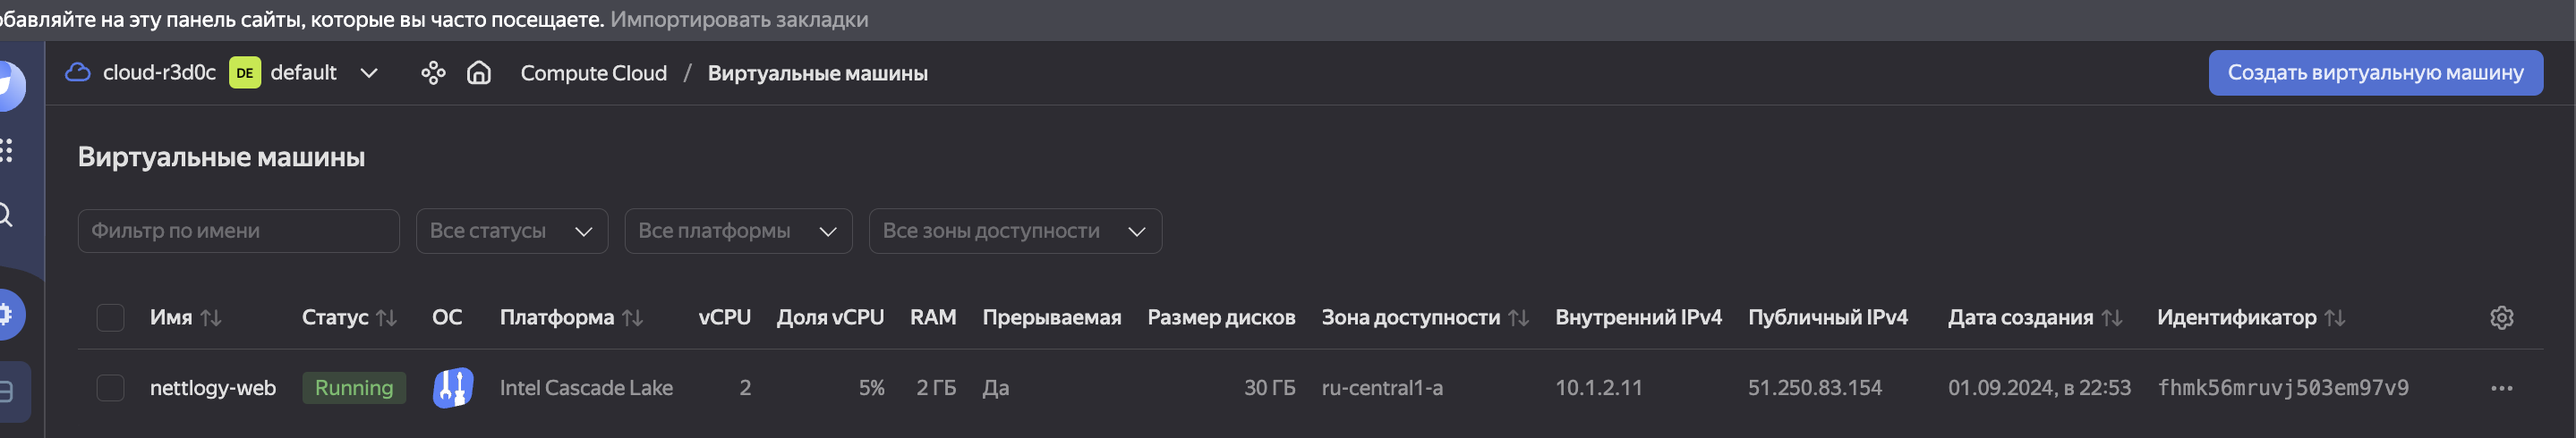
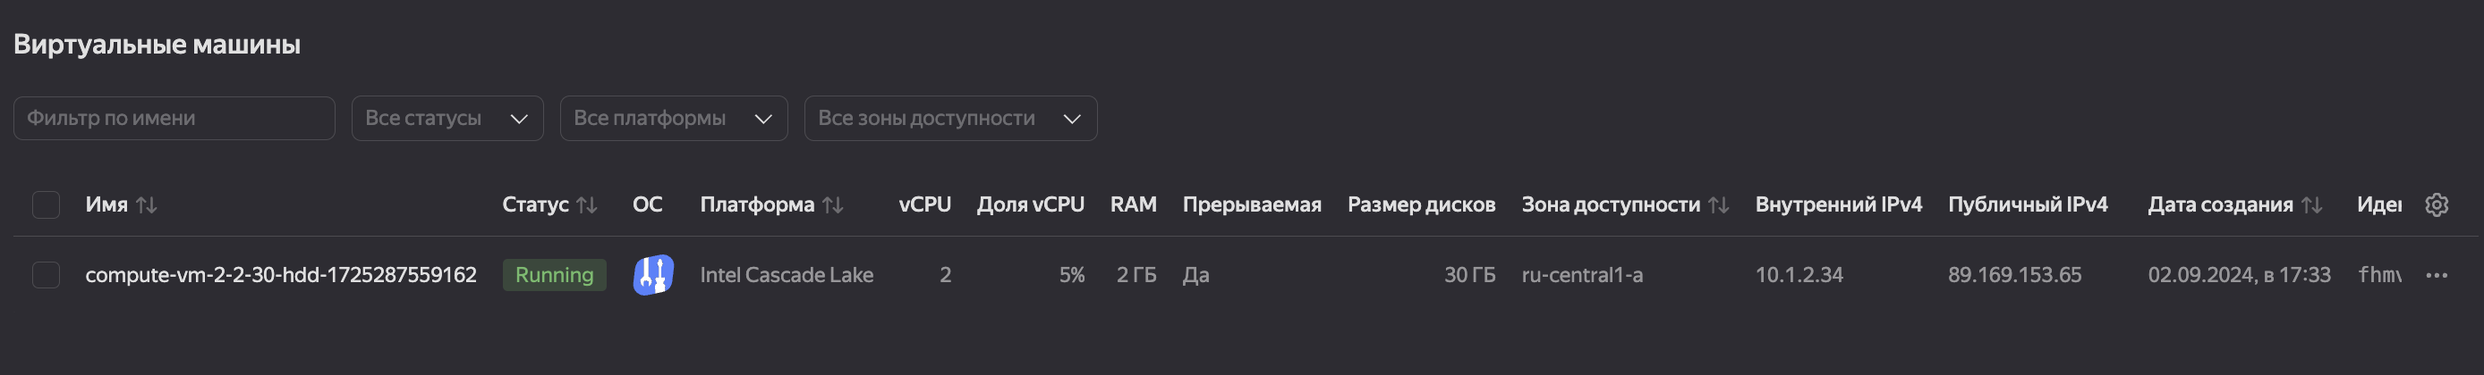
task4

diff --git a/05-virt-04-docker-in-practice/README.md b/05-virt-04-docker-in-practice/README.md
@@ -554,77 +554,228 @@ mysql> SELECT * from web_requests LIMIT 10;.
 
 ![alt text](image-2.png)
 
-2. Подключаемся к ВМ 
+2. Заливаем файлки ```bash``` в для установки и запуска а так-же подключаемся к ВМ 
+
+> Листинг файликов 
 
 ```
-```
+red0c@compute-vm-2-2-30-hdd-1725287559162:~$ cat _docker_compose_install.sh
+#!/bin/bash
 
-3.
-
-```
-sudo apt update
-sudo apt-get update
-red0c@compute-vm-2-2-30-hdd-1725229033417:~$ DOCKER_CONFIG=${DOCKER_CONFIG:-$HOME/.docker}
+DOCKER_CONFIG=${DOCKER_CONFIG:-$HOME/.docker} 
 mkdir -p $DOCKER_CONFIG/cli-plugins
-curl -SL https://github.com/docker/compose/releases/download/v2.29.2/docker-compose-linux-x86_64 -o $DOCKER_CONFIG/cli-plugins/docker-compose
+sudo curl -SL https://github.com/docker/compose/releases/download/v2.29.2/docker-compose-linux-x86_64 -o $DOCKER_CONFIG/cli-plugins/docker-compose
+sudo chmod +x $DOCKER_CONFIG/cli-plugins/docker-compose
+sudo chmod -x /var/run/docker.sock
+sudo adduser $USER docker
+newgrp docker
+docker compose version
+
+red0c@compute-vm-2-2-30-hdd-1725287559162:~$ cat _proj_load_and_run.sh
+#!/bin/bash
+
+sudo git clone https://github.com/x0r1x/shvirtd-example-python.git /opt/shvirtd-example-python
+cd /opt/shvirtd-example-python
+docker compose up -d
+```
+
+> Запуск
+
+```
+alekseykashin@MBP-Aleksej shvirtd-example-python % scp _docker_compose_install.sh red0c@89.169.153.65:~/   
+_docker_compose_install.sh                                                                                                                                                          100%  396     8.2KB/s   00:00    
+alekseykashin@MBP-Aleksej shvirtd-example-python % scp _proj_load_and_run.sh red0c@89.169.153.65:~/
+_proj_load_and_run.sh                                                                                                                                                               100%  159     2.2KB/s   00:00 
+alekseykashin@MBP-Aleksej shvirtd-example-python % ssh red0c@89.169.153.65                                                                 
+Welcome to Ubuntu 22.04.2 LTS (GNU/Linux 5.15.0-73-generic x86_64)
+
+ * Documentation:  https://help.ubuntu.com
+ * Management:     https://landscape.canonical.com
+ * Support:        https://ubuntu.com/advantage
+
+  System information as of Mon Sep  2 06:01:20 PM MSK 2024
+
+  System load:  0.0                Processes:                136
+  Usage of /:   20.7% of 29.44GB   Users logged in:          0
+  Memory usage: 14%                IPv4 address for docker0: 172.17.0.1
+  Swap usage:   0%                 IPv4 address for eth0:    10.1.2.34
+
+
+Expanded Security Maintenance for Applications is not enabled.
+
+0 updates can be applied immediately.
+
+Enable ESM Apps to receive additional future security updates.
+See https://ubuntu.com/esm or run: sudo pro status
+
+
+The list of available updates is more than a week old.
+To check for new updates run: sudo apt update
+New release '24.04.1 LTS' available.
+Run 'do-release-upgrade' to upgrade to it.
+
+
+Last login: Mon Sep  2 17:37:41 2024 from 94.25.169.122
+```
+
+3. Устанавливаем ```docker compose``` (если честно не очень понятно тут на докере надо было все поднять или докер компоуз)
+
+```
+red0c@compute-vm-2-2-30-hdd-1725287559162:~$ sh _docker_compose_install.sh
   % Total    % Received % Xferd  Average Speed   Time    Time     Time  Current
                                  Dload  Upload   Total   Spent    Left  Speed
   0     0    0     0    0     0      0      0 --:--:-- --:--:-- --:--:--     0
-100 60.2M  100 60.2M    0     0  26.2M      0  0:00:02  0:00:02 --:--:-- 37.7M
-red0c@compute-vm-2-2-30-hdd-1725229033417:~$ ~/.docker/cli-plugins
--bash: /home/red0c/.docker/cli-plugins: Is a directory
-red0c@compute-vm-2-2-30-hdd-1725229033417:~$ cd ~/.docker/cli-plugins
-red0c@compute-vm-2-2-30-hdd-1725229033417:~/.docker/cli-plugins$ ls
-docker-compose
-red0c@compute-vm-2-2-30-hdd-1725229033417:~/.docker/cli-plugins$ cd /usr/local/lib/docker/cli-plugins.
--bash: cd: /usr/local/lib/docker/cli-plugins.: No such file or directory
-red0c@compute-vm-2-2-30-hdd-1725229033417:~/.docker/cli-plugins$ cd /usr/local/lib/docker/cli-plugins.
--bash: cd: /usr/local/lib/docker/cli-plugins.: No such file or directory
-red0c@compute-vm-2-2-30-hdd-1725229033417:~/.docker/cli-plugins$ cd /usr/local/lib/docker/cli-plugins
--bash: cd: /usr/local/lib/docker/cli-plugins: No such file or directory
-red0c@compute-vm-2-2-30-hdd-1725229033417:~/.docker/cli-plugins$ ls
-docker-compose
-red0c@compute-vm-2-2-30-hdd-1725229033417:~/.docker/cli-plugins$ chmod +x $DOCKER_CONFIG/cli-plugins/docker-compose
-red0c@compute-vm-2-2-30-hdd-1725229033417:~/.docker/cli-plugins$ sudo chmod +x /usr/local/lib/docker/cli-plugins/docker-compose
-chmod: cannot access '/usr/local/lib/docker/cli-plugins/docker-compose': No such file or directory
-red0c@compute-vm-2-2-30-hdd-1725229033417:~/.docker/cli-plugins$ docker compose version
-Docker Compose version v2.29.2
-```
+100 60.2M  100 60.2M    0     0  51.8M      0  0:00:01  0:00:01 --:--:--  140M
+Adding user `red0c' to group `docker' ...
+Adding user red0c to group docker
+Done.
 
 ```
 
-sudo apt update
+4. Запускаем проект
 
-red0c@web:/opt/shvirtd-example-python$ sudo snap remove docker
-docker removed
-red0c@web:/opt/shvirtd-example-python$ sudo apt install docker.io
-
-
-
-red0c@web:~$ sudo apt-get update
-Hit:1 http://mirror.yandex.ru/ubuntu jammy InRelease
-sudo apt-get install docker 
-
-
-red0c@nettlogy-web:/opt$ cd /opt/shvirtd-example-python
-red0c@nettlogy-web:/opt/shvirtd-example-python$ sudo apt-get update
-red0c@nettlogy-web:/opt/shvirtd-example-python$ sudo apt-get install docker-compose-plugin
-Reading package lists... Done
-Building dependency tree... Done
-Reading state information... Done
-E: Unable to locate package docker-compose-plugin
-
-
-red0c@nettlogy-web:/opt$ sudo git clone https://github.com/x0r1x/shvirtd-example-python.git /opt/shvirtd-example-python
+```
+red0c@compute-vm-2-2-30-hdd-1725287559162:~$ sh _proj_load_and_run.sh
 Cloning into '/opt/shvirtd-example-python'...
-remote: Enumerating objects: 2170, done.
-remote: Counting objects: 100% (1769/1769), done.
-remote: Compressing objects: 100% (1574/1574), done.
-remote: Total 2170 (delta 201), reused 1447 (delta 185), pack-reused 401 (from 1)
-Receiving objects: 100% (2170/2170), 11.18 MiB | 13.66 MiB/s, done.
-Resolving deltas: 100% (228/228), done.
-red0c@nettlogy-web:/opt$ ls
-containerd  shvirtd-example-python  yc
+remote: Enumerating objects: 2173, done.
+remote: Counting objects: 100% (1772/1772), done.
+remote: Compressing objects: 100% (1576/1576), done.
+remote: Total 2173 (delta 203), reused 1449 (delta 186), pack-reused 401 (from 1)
+Receiving objects: 100% (2173/2173), 11.18 MiB | 16.89 MiB/s, done.
+Resolving deltas: 100% (230/230), done.
+WARN[0000] /opt/shvirtd-example-python/proxy.yaml: the attribute `version` is obsolete, it will be ignored, please remove it to avoid potential confusion 
+WARN[0000] /opt/shvirtd-example-python/compose.yaml: the attribute `version` is obsolete, it will be ignored, please remove it to avoid potential confusion 
+[+] Running 24/24
+ ✔ db Pulled                                                                                                                                                                                                    60.6s 
+   ✔ 6e839ac3722d Pull complete                                                                                                                                                                                 19.2s 
+   ✔ 4e6ddf56df32 Pull complete                                                                                                                                                                                 22.8s 
+   ✔ 25d13d87fd8d Pull complete                                                                                                                                                                                 27.6s 
+   ✔ b32ea8d4b0b4 Pull complete                                                                                                                                                                                 36.7s 
+   ✔ d7831e46745c Pull complete                                                                                                                                                                                 37.0s 
+   ✔ f68dfd038d6f Pull complete                                                                                                                                                                                 37.1s 
+   ✔ 400f83c08f60 Pull complete                                                                                                                                                                                 40.4s 
+   ✔ f688763fd152 Pull complete                                                                                                                                                                                 40.6s 
+   ✔ 6c44c25a80a1 Pull complete                                                                                                                                                                                 58.3s 
+   ✔ 0a2d80756f3d Pull complete                                                                                                                                                                                 58.4s 
+ ✔ reverse-proxy Pulled                                                                                                                                                                                         39.2s 
+   ✔ e4fff0779e6d Pull complete                                                                                                                                                                                 22.4s 
+   ✔ 5dbaa923ec5d Pull complete                                                                                                                                                                                 25.1s 
+   ✔ 435c4974aa13 Pull complete                                                                                                                                                                                 30.7s 
+   ✔ 417fe4774220 Pull complete                                                                                                                                                                                 36.7s 
+   ✔ a3df79304e8d Pull complete                                                                                                                                                                                 37.0s 
+ ✔ ingress-proxy Pulled                                                                                                                                                                                         39.5s 
+   ✔ a330b6cecb98 Pull complete                                                                                                                                                                                  8.5s 
+   ✔ 5ef80e6f29b5 Pull complete                                                                                                                                                                                 30.0s 
+   ✔ f699b0db74e3 Pull complete                                                                                                                                                                                 36.8s 
+   ✔ 0f701a34c55e Pull complete                                                                                                                                                                                 36.9s 
+   ✔ 3229dce7b89c Pull complete                                                                                                                                                                                 37.1s 
+   ✔ ddb78cb2d047 Pull complete                                                                                                                                                                                 37.3s 
+[+] Building 40.7s (9/9) FINISHED                                                                                                                                                                      docker:default
+ => [web internal] load build definition from Dockerfile.python                                                                                                                                                  0.2s
+ => => transferring dockerfile: 271B                                                                                                                                                                             0.1s
+ => [web internal] load .dockerignore                                                                                                                                                                            0.2s
+ => => transferring context: 89B                                                                                                                                                                                 0.1s
+ => [web internal] load metadata for docker.io/library/python:3.9-slim                                                                                                                                           1.9s
+ => [web 1/4] FROM docker.io/library/python:3.9-slim@sha256:1e3437daae1d9cebce372794eacfac254dd108200e47c8b7f56a633ebd3e2a0a                                                                                    15.9s
+ => => resolve docker.io/library/python:3.9-slim@sha256:1e3437daae1d9cebce372794eacfac254dd108200e47c8b7f56a633ebd3e2a0a                                                                                         0.0s
+ => => sha256:1e3437daae1d9cebce372794eacfac254dd108200e47c8b7f56a633ebd3e2a0a 10.41kB / 10.41kB                                                                                                                 0.0s
+ => => sha256:0d765163e487fbdd9c93b3b3b7233251d3222d48fa3f88475269a64f5e2b84be 1.94kB / 1.94kB                                                                                                                   0.0s
+ => => sha256:d8892906392f0a3cd4706b6f30a88ee8870c6b6c370d35b498b0b93e7ed7bf5f 6.88kB / 6.88kB                                                                                                                   0.0s
+ => => sha256:5be20a4ff2774cd684d410f8ea49b03991524f012d2f5a93e1ef573451b2bd6e 3.51MB / 3.51MB                                                                                                                   0.5s
+ => => sha256:48174a2f2dd9bbae1a67ceb64b7ab049fe8b392f1a6aae6937152c034ffcb138 11.89MB / 11.89MB                                                                                                                 2.3s
+ => => sha256:0cb9f64d8db64a7b5c5f6aa8ee563fed15ae2df77f1659eb143d0d6f5ee43573 232B / 232B                                                                                                                       1.3s
+ => => extracting sha256:5be20a4ff2774cd684d410f8ea49b03991524f012d2f5a93e1ef573451b2bd6e                                                                                                                        0.4s
+ => => sha256:c9140ff79093c868190cd8e242ae1738f9fe734fd53081717fd559b8268cf3d3 2.77MB / 2.77MB                                                                                                                   3.0s
+ => => extracting sha256:48174a2f2dd9bbae1a67ceb64b7ab049fe8b392f1a6aae6937152c034ffcb138                                                                                                                        0.6s
+ => => extracting sha256:0cb9f64d8db64a7b5c5f6aa8ee563fed15ae2df77f1659eb143d0d6f5ee43573                                                                                                                        0.0s
+ => => extracting sha256:c9140ff79093c868190cd8e242ae1738f9fe734fd53081717fd559b8268cf3d3                                                                                                                        1.1s
+ => [web internal] load build context                                                                                                                                                                           18.2s
+ => => transferring context: 78.13MB                                                                                                                                                                            18.1s
+ => [web 2/4] WORKDIR /app                                                                                                                                                                                       2.0s
+ => [web 3/4] COPY . .                                                                                                                                                                                           5.2s
+ => [web 4/4] RUN pip install -r requirements.txt                                                                                                                                                               13.3s
+ => [web] exporting to image                                                                                                                                                                                     1.6s 
+ => => exporting layers                                                                                                                                                                                          1.4s 
+ => => writing image sha256:e7cdbfa04eae25b6b6136c08e6fc9e2623b053ede2d1ba15449e249cb07dcce9                                                                                                                     0.0s 
+ => => naming to docker.io/library/shvirtd-example-python-web                                                                                                                                                    0.0s 
+WARN[0061] current commit information was not captured by the build  error="failed to read current commit information with git rev-parse --is-inside-work-tree"                                                       
+[+] Running 6/6                                                                                                                                                                                                       
+ ✔ Network shvirtd-example-python_backend            Created                                                                                                                                                     0.3s 
+ ✔ Volume "shvirtd-example-python_db_data"           Created                                                                                                                                                     0.1s 
+ ✔ Container shvirtd-example-python-db-1             Started                                                                                                                                                     1.6s 
+ ✔ Container shvirtd-example-python-web-1            Started                                                                                                                                                     2.0s 
+ ✔ Container shvirtd-example-python-reverse-proxy-1  Started                                                                                                                                                     2.5s 
+ ✔ Container shvirtd-example-python-ingress-proxy-1  Started     
+ red0c@compute-vm-2-2-30-hdd-1725287559162:~$ cd /opt/shvirtd-example-python
+ red0c@compute-vm-2-2-30-hdd-1725287559162:/opt/shvirtd-example-python$ docker compose ps
+WARN[0000] /opt/shvirtd-example-python/proxy.yaml: the attribute `version` is obsolete, it will be ignored, please remove it to avoid potential confusion 
+WARN[0000] /opt/shvirtd-example-python/compose.yaml: the attribute `version` is obsolete, it will be ignored, please remove it to avoid potential confusion 
+NAME                                     IMAGE                        COMMAND                  SERVICE         CREATED         STATUS                   PORTS
+shvirtd-example-python-db-1              mysql:8                      "docker-entrypoint.s…"   db              5 minutes ago   Up 5 minutes (healthy)   3306/tcp, 33060/tcp
+shvirtd-example-python-ingress-proxy-1   nginx:1.21.1                 "/docker-entrypoint.…"   ingress-proxy   5 minutes ago   Up 4 minutes             80/tcp, 0.0.0.0:8090->8090/tcp
+shvirtd-example-python-reverse-proxy-1   haproxy:2.4                  "docker-entrypoint.s…"   reverse-proxy   5 minutes ago   Up 4 minutes             127.0.0.1:8080->8080/tcp
+shvirtd-example-python-web-1             shvirtd-example-python-web   "python main.py"         web             5 minutes ago   Up 3 minutes                        
+```
+
+5. Проверяем что запросы отправляются на сервер ```https://check-host.net```, убеждаемся что ответы записаны в базу данных
+
+![alt text](image-3.png)
+
+```
+red0c@compute-vm-2-2-30-hdd-1725287559162:/opt/shvirtd-example-python$ docker compose exec db mysql -uroot -pYtReWq4321
+WARN[0000] /opt/shvirtd-example-python/proxy.yaml: the attribute `version` is obsolete, it will be ignored, please remove it to avoid potential confusion 
+WARN[0000] /opt/shvirtd-example-python/compose.yaml: the attribute `version` is obsolete, it will be ignored, please remove it to avoid potential confusion 
+mysql: [Warning] Using a password on the command line interface can be insecure.
+Welcome to the MySQL monitor.  Commands end with ; or \g.
+Your MySQL connection id is 116
+Server version: 8.4.2 MySQL Community Server - GPL
+
+Copyright (c) 2000, 2024, Oracle and/or its affiliates.
+
+Oracle is a registered trademark of Oracle Corporation and/or its
+affiliates. Other names may be trademarks of their respective
+owners.
+
+Type 'help;' or '\h' for help. Type '\c' to clear the current input statement.
+
+mysql> show databases;
++--------------------+
+| Database           |
++--------------------+
+| information_schema |
+| mysql              |
+| performance_schema |
+| sys                |
+| virtd              |
++--------------------+
+5 rows in set (0.17 sec)
+
+mysql> use virtd;
+Reading table information for completion of table and column names
+You can turn off this feature to get a quicker startup with -A
+
+Database changed
+mysql> show tables;
++-----------------+
+| Tables_in_virtd |
++-----------------+
+| web_requests    |
++-----------------+
+1 row in set (0.01 sec)
+
+mysql> SELECT * from web_requests LIMIT 10;
++----+---------------------+-----------------+
+| id | request_date        | request_ip      |
++----+---------------------+-----------------+
+|  1 | 2024-09-02 15:09:11 | 172.20.0.1      |
+|  2 | 2024-09-02 15:09:16 | 94.25.169.122   |
+|  3 | 2024-09-02 15:10:29 | 195.211.27.85   |
+|  4 | 2024-09-02 15:10:29 | 185.209.161.169 |
+|  5 | 2024-09-02 15:10:29 | 167.235.135.184 |
++----+---------------------+-----------------+
+5 rows in set (0.01 sec)
+
+mysql> 
 ```
 
 ## Задача 5 (*)
@@ -637,9 +788,66 @@ containerd  shvirtd-example-python  yc
 Скачайте docker образ ```hashicorp/terraform:latest``` и скопируйте бинарный файл ```/bin/terraform``` на свою локальную машину, используя dive и docker save.
 Предоставьте скриншоты  действий .
 
+### Решение 
+
+![alt text](image-4.png)
+
+```
+alekseykashin@MBP-Aleksej nettology % docker image  save -o  /tmp/image.tar.gz hashicorp/terraform:latest
+alekseykashin@MBP-Aleksej nettology % cd /tmp/image.tar.gz
+cd: not a directory: /tmp/image.tar.gz
+alekseykashin@MBP-Aleksej nettology % cd /tmp             
+alekseykashin@MBP-Aleksej /tmp % ls
+IpcGBufferCwaServer_0_75314		com.apple.launchd.UxurusUkly		com.citrix.ctxworkspaceupdater.out	ovpnconnect-local-ipc.sock
+boost_interprocess			com.citrix.ctxworkspaceupdater.err	image.tar.gz				powerlog
+alekseykashin@MBP-Aleksej /tmp % tar xf /tmp/image.tar.gz
+alekseykashin@MBP-Aleksej /tmp % cd /tmp        
+alekseykashin@MBP-Aleksej /tmp % ls
+IpcGBufferCwaServer_0_75314		com.citrix.ctxworkspaceupdater.err	manifest.json				repositories
+blobs					com.citrix.ctxworkspaceupdater.out	oci-layout
+boost_interprocess			image.tar.gz				ovpnconnect-local-ipc.sock
+com.apple.launchd.UxurusUkly		index.json				powerlog
+alekseykashin@MBP-Aleksej /tmp % cd /tmp/blobs/sha256 
+alekseykashin@MBP-Aleksej sha256 % ls
+0608f24ce936600741bd7a4bb8c5616c49e7053def2b7f46bef1800c8d495caf	950271aee953adfb559a94b30ec04c803588d2dda571d764895e0587d3248d49
+23e42cf5a63999d6c5003546afc466b72ce97298d8f6ba7a3b27bf0f61ac26ca	9758a348e34f1fc612654661cb24d6d80f8ee9a85a4d4effb910d2351c1b94d8
+7b067148d2e241f7b6f27698b7717ca8712510f1872ace5ce9f04f046a559db1	d776af2d92f7fdb7f1642f3f1a83270c010d587dabcffe2504c5a4be4e466ed8
+90783531bff1c0b841d8c0e5a3369c9e271057bc69c2cc178fb9a5e341b55c8d	eb90ddc0e15a3af7389245f9393480fbf5bf7a10d22886e2bf599e0ce68753a0
+9110f7b5208f035f4d4f99b5169338169e1df9bb2519d1b047f50f54430bacc2	fb9fa3e696fdf9e515ba529e767bb39693890bf827d070703171433c6cb21568
+alekseykashin@MBP-Aleksej sha256 % tar xf 950271aee953adfb559a94b30ec04c803588d2dda571d764895e0587d3248d49 
+alekseykashin@MBP-Aleksej sha256 % ls
+0608f24ce936600741bd7a4bb8c5616c49e7053def2b7f46bef1800c8d495caf	9758a348e34f1fc612654661cb24d6d80f8ee9a85a4d4effb910d2351c1b94d8
+23e42cf5a63999d6c5003546afc466b72ce97298d8f6ba7a3b27bf0f61ac26ca	bin
+7b067148d2e241f7b6f27698b7717ca8712510f1872ace5ce9f04f046a559db1	d776af2d92f7fdb7f1642f3f1a83270c010d587dabcffe2504c5a4be4e466ed8
+90783531bff1c0b841d8c0e5a3369c9e271057bc69c2cc178fb9a5e341b55c8d	eb90ddc0e15a3af7389245f9393480fbf5bf7a10d22886e2bf599e0ce68753a0
+9110f7b5208f035f4d4f99b5169338169e1df9bb2519d1b047f50f54430bacc2	fb9fa3e696fdf9e515ba529e767bb39693890bf827d070703171433c6cb21568
[1 lines of base64/hex data omitted]
+alekseykashin@MBP-Aleksej sha256 % cd bin
+alekseykashin@MBP-Aleksej bin % ls
+terraform
+```
+![alt text](image-5.png)
+
 ## Задача 6.1
 Добейтесь аналогичного результата, используя docker cp.  
 Предоставьте скриншоты  действий .
+
+### Решение
+1. Запускаем контейнер и скачиваем из него файлик ```terraform```
+```
+alekseykashin@MBP-Aleksej task_6_1 % docker run -i -t hashicorp/terraform:latest -version          
+Terraform v1.9.5
+on linux_arm64
+alekseykashin@MBP-Aleksej task_6_1 % docker cp f360cddeabb1126809a8d7b8122d4e8694af977b2a4b48a7ed84fee93e2ef347:/bin/terraform /tmp/terraform
+Successfully copied 85.2MB to /tmp/terraform
+alekseykashin@MBP-Aleksej task_6_1 % cd /tmp  
+alekseykashin@MBP-Aleksej /tmp % ls
+IpcGBufferCwaServer_0_75314		com.apple.launchd.UxurusUkly		image.tar.gz				terraform
+blobs					com.citrix.ctxworkspaceupdater.err	ovpnconnect-local-ipc.sock
+boost_interprocess			com.citrix.ctxworkspaceupdater.out	powerlog
+alekseykashin@MBP-Aleksej /tmp % 
+```
+![alt text](image-6.png)
 
 ## Задача 6.2 (**)
 Предложите способ извлечь файл из контейнера, используя только команду docker build и любой Dockerfile.  

diff --git a/05-virt-04-docker-in-practice/lecture_demonstration/07.save_dive/README.MD b/05-virt-04-docker-in-practice/lecture_demonstration/07.save_dive/README.MD
@@ -16,5 +16,5 @@ cd blobs/sha256
 
 # Digest: sha256:f8194172658e9ce6e7923639c5ebd4f77a8a7a2b44b1e1462a110f793c17c280
 
-tar xf f8194172658e9ce6e7923639c5ebd4f77a8a7a2b44b1e1462a110f793c17c280
+tar xf f8194172658e9ce6e7923639c5ebd4f77a8a7a2b44b1e1462a110f793c17c280:/bin/terraform
 
